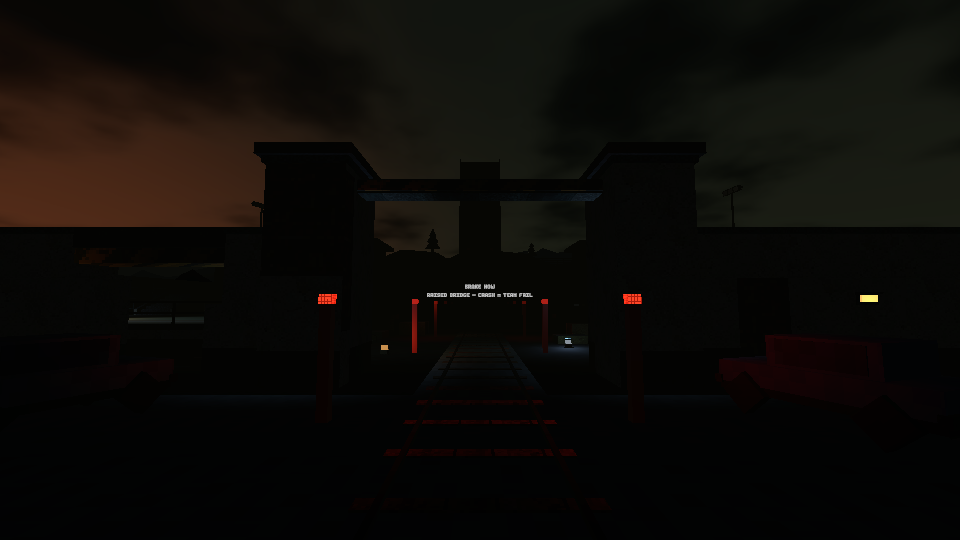
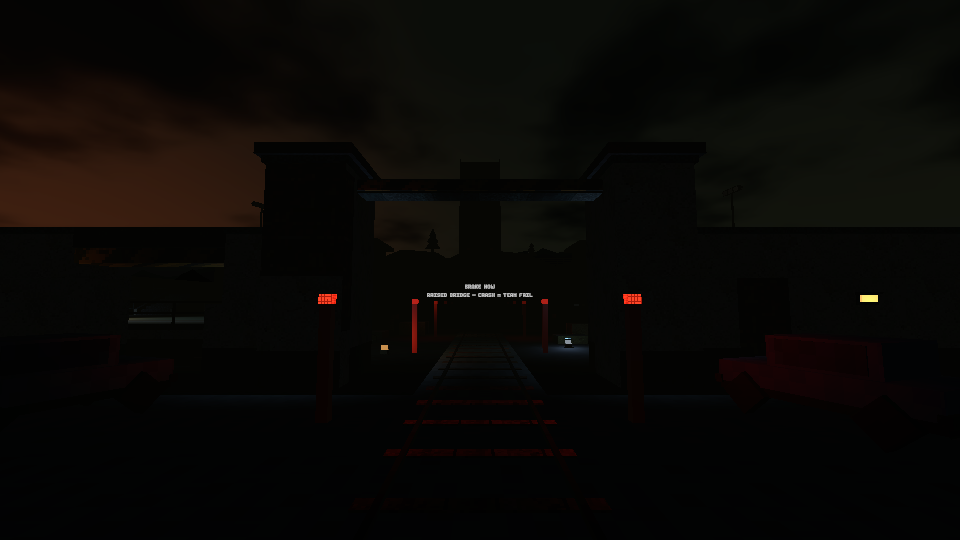
Darken the night and pre-dawn storm sky
Night sky exposure 0.6 -> 0.3 and pre-dawn 0.7 -> 0.4 in Atmosphere.asset,
code defaults and the Expedition/Login sky materials; night mountain colours
halved to stay darker than the sky. Dawn unchanged.

Changed region(s): [[0.0, 0.237, 0.0938, 0.3259], [0.125, 0.237, 0.1875, 0.2963]]

diff --git a/Assets/Scripts/Gameplay/RailAtmosphereSettings.cs b/Assets/Scripts/Gameplay/RailAtmosphereSettings.cs
@@ -44,24 +44,24 @@ public sealed class RailAtmosphereSettings : ScriptableObject
         public Color mountainNear;
         public Color mountainFar;
 
-        // Night is a darker version of the Duckz storm palette (Duckz exposure 0.8).
+        // Night is a much darker version of the Duckz storm palette (Duckz exposure 0.8; Justin, Nov 23: night too bright).
         public static SkyPhase Night => new SkyPhase
         {
             zenith = new Color(.08f, .095f, .065f), horizon = new Color(.12f, .135f, .09f),
             cloudEdge = new Color(.14f, .155f, .11f), cloudShadow = new Color(.018f, .024f, .017f),
             cloudCoverage = .54f, cloudOpacity = .95f,
-            exposure = .6f, sunGlow = new Color(1, .55f, .25f), sunGlowStrength = 0, sunElevation = -12,
+            exposure = .3f, sunGlow = new Color(1, .55f, .25f), sunGlowStrength = 0, sunElevation = -12,
             sunlight = new Color(1, .85f, .65f), sunlightIntensity = 0, ambient = new Color(.025f, .03f, .045f),
-            mountainNear = new Color(.008f, .01f, .007f), mountainFar = new Color(.035f, .041f, .028f),
+            mountainNear = new Color(.004f, .005f, .004f), mountainFar = new Color(.018f, .021f, .015f),
         };
         public static SkyPhase PreDawn => new SkyPhase
         {
             zenith = new Color(.08f, .095f, .075f), horizon = new Color(.13f, .14f, .1f),
             cloudEdge = new Color(.15f, .16f, .12f), cloudShadow = new Color(.02f, .026f, .02f),
             cloudCoverage = .54f, cloudOpacity = .95f,
-            exposure = .7f, sunGlow = new Color(1, .45f, .2f), sunGlowStrength = .12f, sunElevation = -5,
+            exposure = .4f, sunGlow = new Color(1, .45f, .2f), sunGlowStrength = .12f, sunElevation = -5,
             sunlight = new Color(1, .7f, .45f), sunlightIntensity = 0, ambient = new Color(.055f, .065f, .09f),
-            mountainNear = new Color(.01f, .012f, .009f), mountainFar = new Color(.045f, .05f, .036f),
+            mountainNear = new Color(.006f, .007f, .005f), mountainFar = new Color(.026f, .029f, .021f),
         };
         // November 23 (Justin): dawn should feel really sunny. Blue sky, broken clouds lit gold,
         // a low warm sun with realtime sunlight, and a light golden haze instead of grey fog.

diff --git a/docs/block-lighting.md b/docs/block-lighting.md
@@ -253,3 +253,7 @@ Preserve the City_Deck local Y=0.25 override in StartingStation and its V3 sourc
 prefab. RailCityStation.BuildPrefab applies it after FBX instantiation. Do not
 restore the deck to the ceiling plane. User lights, mesh UVs and interior geometry
 are unchanged. [Evidence, images and checks](validation/station-lightmap-fix/README.md).
+
+### Darker night sky — November 23, 2026
+
+Justin: night sky much too bright. Night sky exposure 0.6 → 0.3 and pre-dawn 0.7 → 0.4 (saved in `Atmosphere.asset`, code defaults, and both `ExpeditionSky.mat` and Login's `Quackville_Skybox.mat`); night/pre-dawn mountain colours halved so the ridges stay darker than the sky. Dawn unchanged. **Check Expedition Atmosphere** 61 assertions and **Check Atmosphere Tuner** pass. To tune further: **Duck Rails > Lighting > Atmosphere Tuner** → Preview, pick Night/Pre-dawn/Dawn, edit the `Night Sky` / `Pre Dawn Sky` / `Dawn Sky` fields (Exposure is the overall brightness), then **Save fog and sky settings**. Login's sky is the `Brightness` slider on `Quackville_Skybox.mat`.
